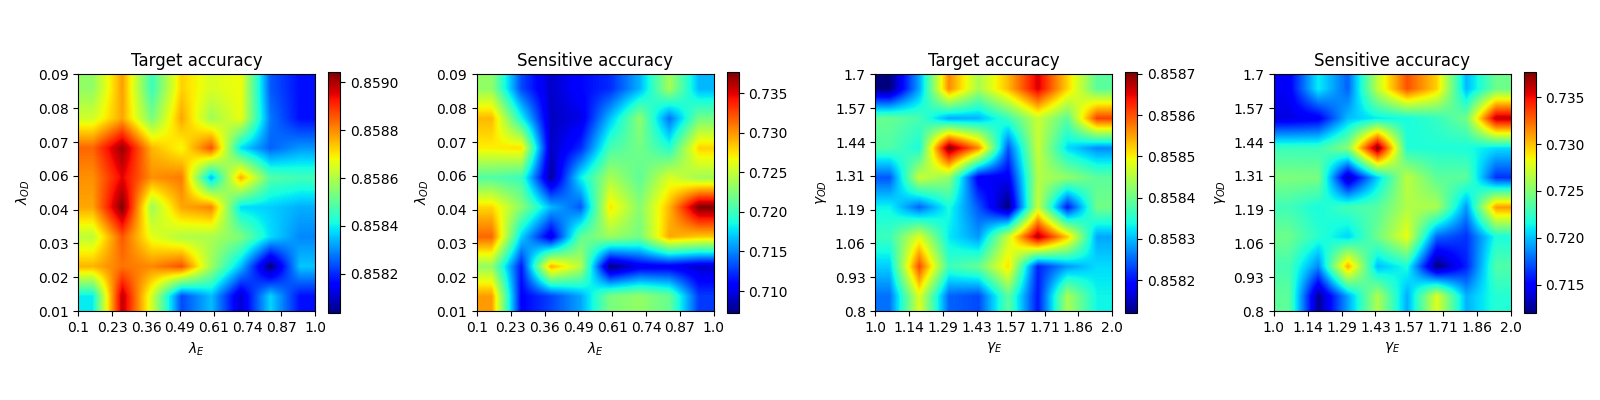
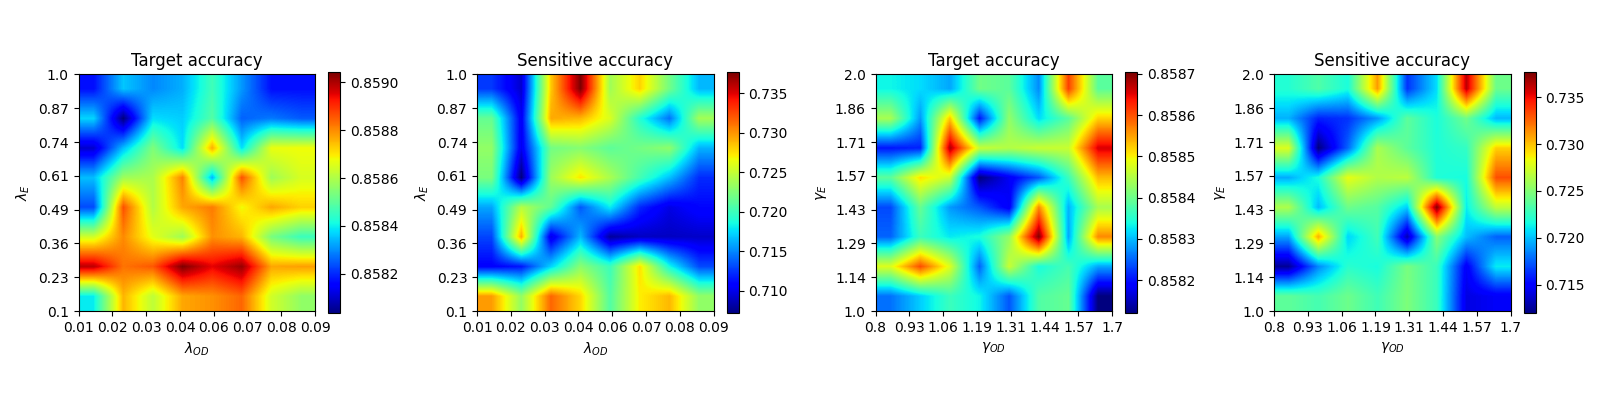
add final plots, sens analysis results

diff --git a/scripts/visualize_sensitivity.py b/scripts/visualize_sensitivity.py
@@ -37,11 +37,11 @@ def get_varying_param2vals2seed2results(args):
     rel_files = [
         f
         for f in (RESULTS_DIR.glob("*json"))
-        if f.name.startswith(f"sensitivity&{args.dataset}")
+        if f.name.startswith(f"sensitivity_{args.dataset}")
     ]
 
     def get_parameter_spec(fname):
-        return fname.name.split("&")[2]
+        return fname.name.split("_", 2)[-1].rsplit("_", 1)[0]
 
     def get_varying_params(fname):
         return tuple(re.findall("[a-z_]+", get_parameter_spec(fname)))
@@ -50,7 +50,7 @@ def get_varying_param2vals2seed2results(args):
         return tuple(re.findall("[0-9.]+", get_parameter_spec(fname)))
 
     def get_seed(fname):
-        return fname.stem.split("&")[-1]
+        return fname.stem.split("_")[-1]
 
     def load_results(fname):
         with open(fname) as f:
@@ -84,7 +84,7 @@ def plot_heat_matrix(coord2val, ax):
         *zip(
             *enumerate(
                 sorted(
-                    set([xy[0] for xy in coord2val.index]),
+                    set([xy[1] for xy in coord2val.index]),
                     key=float,
                     reverse=True,
                 )
@@ -94,19 +94,14 @@ def plot_heat_matrix(coord2val, ax):
     coord2ind1 = pd.Series(
         *zip(
             *enumerate(
-                sorted(set([xy[1] for xy in coord2val.index]), key=float)
+                sorted(set([xy[0] for xy in coord2val.index]), key=float)
             )
         )
     )
     hmap = np.zeros((coord2ind0.size, coord2ind1.size))
     for coord0, ind0 in coord2ind0.iteritems():
         for coord1, ind1 in coord2ind1.iteritems():
-            # breakpoint()
-            hmap[ind0, ind1] = coord2val[(coord0, coord1)]
-            # print(coord2val[coord2val.index == (coord0, coord1)].get(0))
-            # hmap[ind0, ind1] = coord2val[
-            #     coord2val.index == (coord0, coord1)
-            # ].get(0)
+            hmap[ind0, ind1] = coord2val[(coord1, coord0)]
 
     def get_labels(vals):
         return [
@@ -220,8 +215,8 @@ if __name__ == "__main__":
         plot_heat_matrix(vals2acc_mean_s, ax_s)
         ax_s.set_title("Sensitive accuracy")
         for this_ax in [ax_s, ax_t]:
-            this_ax.set_xlabel(PARAM_NAME2PRETTY_NAME[varying_params[0]])
-            this_ax.set_ylabel(PARAM_NAME2PRETTY_NAME[varying_params[1]])
+            this_ax.set_xlabel(PARAM_NAME2PRETTY_NAME[varying_params[1]])
+            this_ax.set_ylabel(PARAM_NAME2PRETTY_NAME[varying_params[0]])
     out_fpath = FIGURES_DIR / f"sensitivity.{args.dataset}.png"
     fig.savefig(out_fpath)
     print(f"Saved fig to {out_fpath.relative_to(PROJECT_DIR)}")
